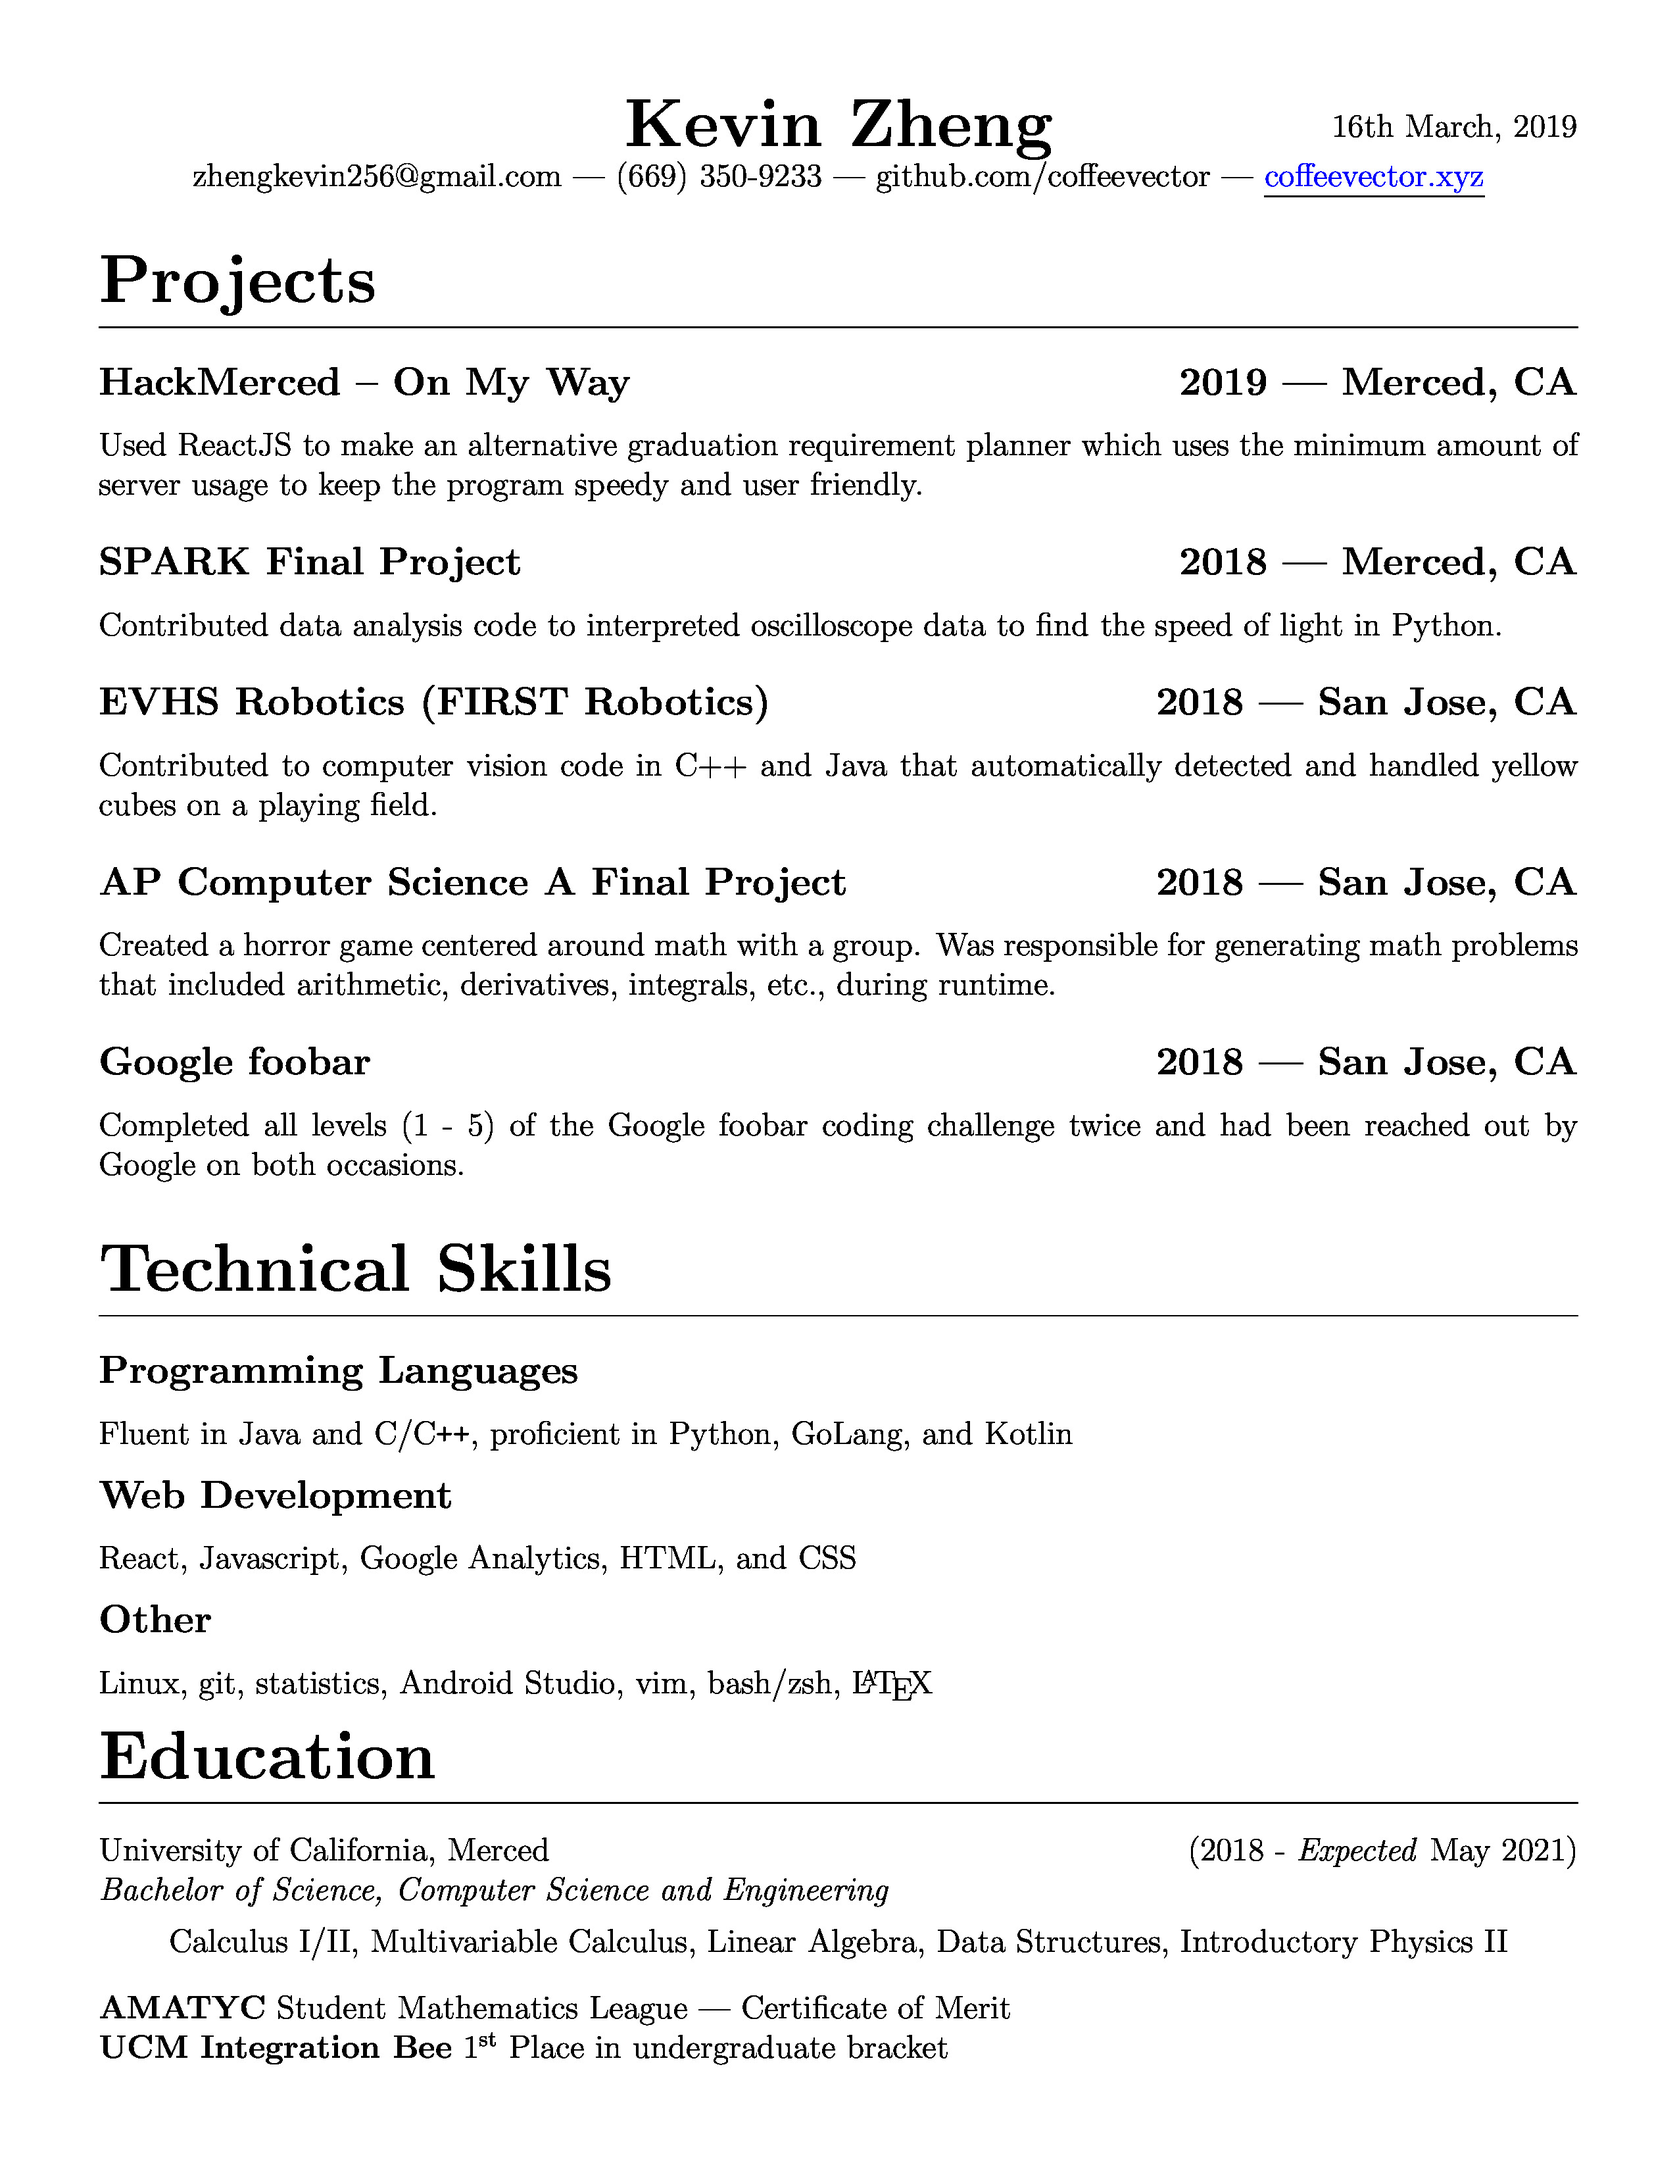
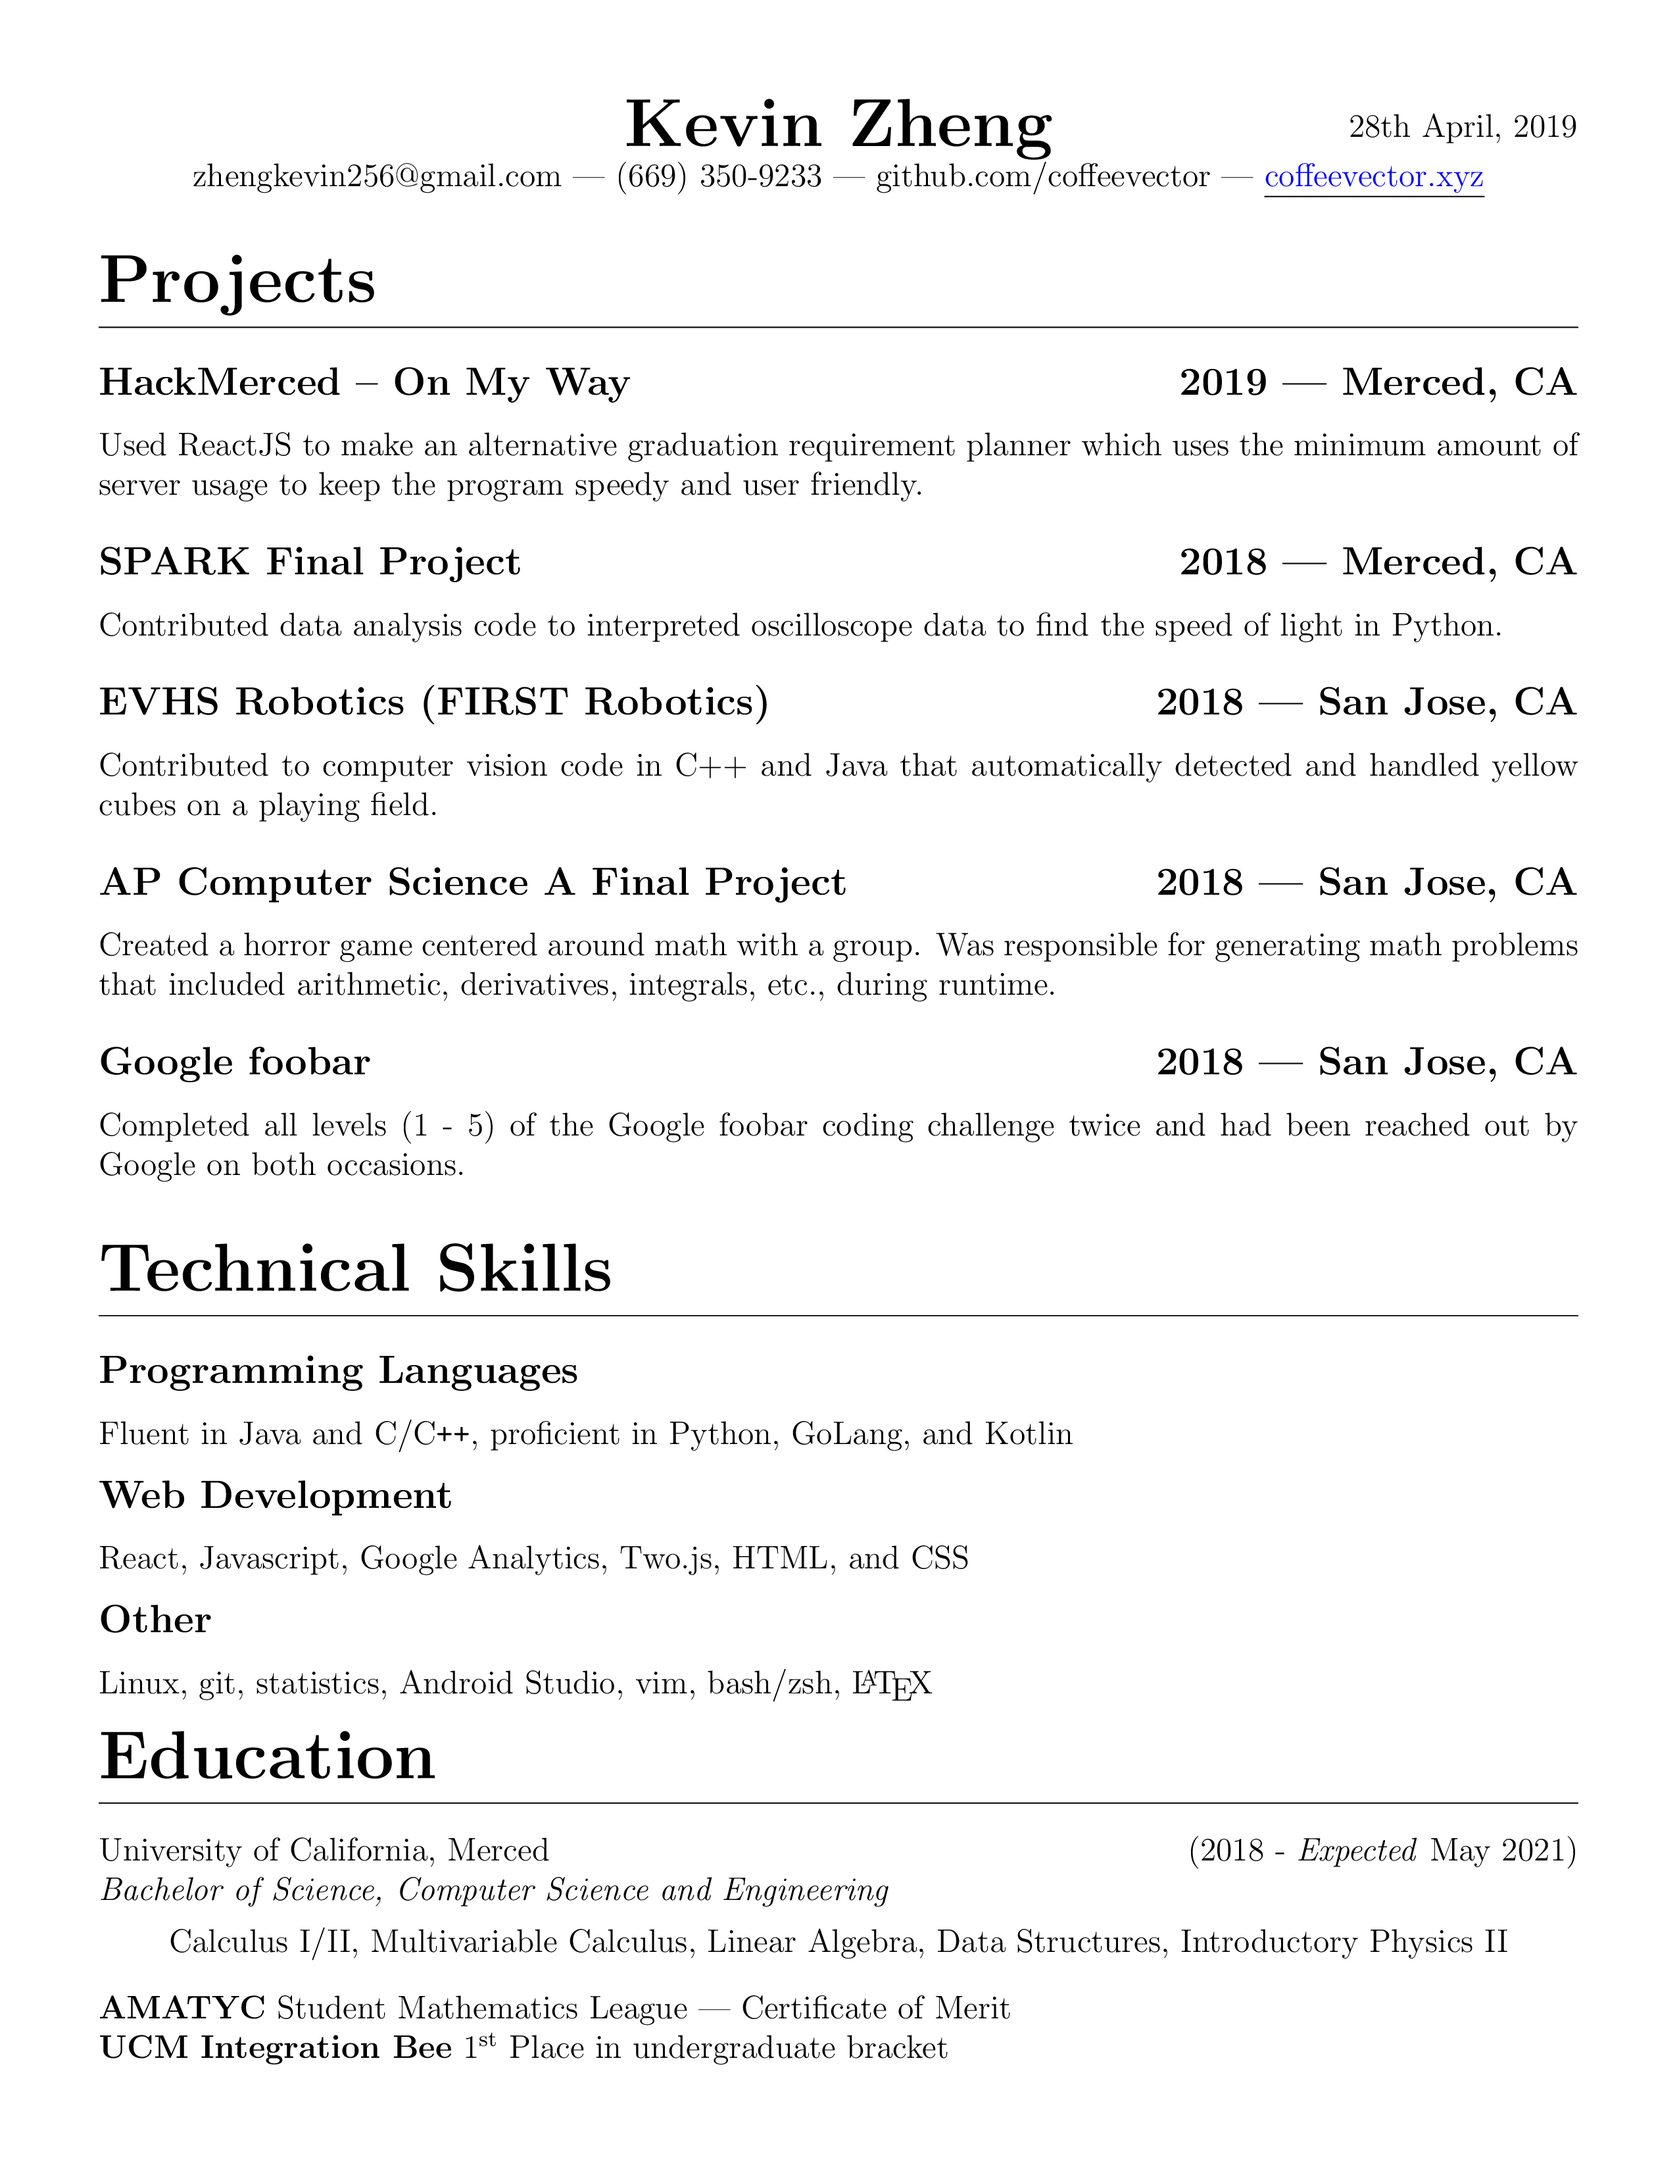
Add Two.js to web dev skills

Changed region(s): [[0.8055, 0.0312, 0.8675, 0.0624]]

diff --git a/techskills/webdev.tex b/techskills/webdev.tex
@@ -1,6 +1,6 @@
 \documentclass[../Resume.tex]{subfiles}
 \begin{document}
 	\subsection{Web Development}
-	React, Javascript, Google Analytics, HTML, and CSS
+	React, Javascript, Google Analytics, Two.js, HTML, and CSS
 	\vspace*{-4mm}
 \end{document}
